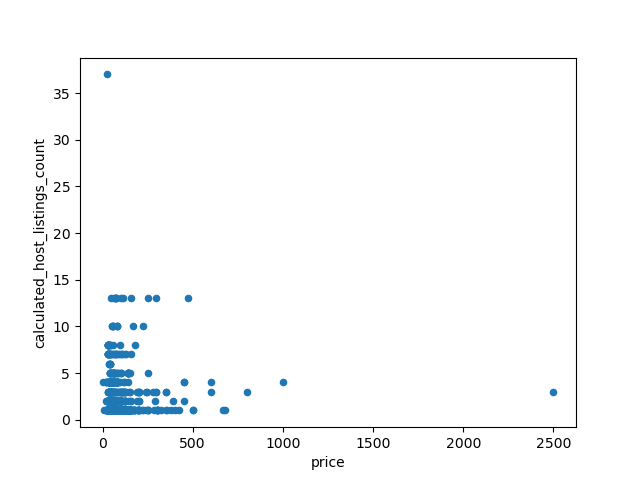
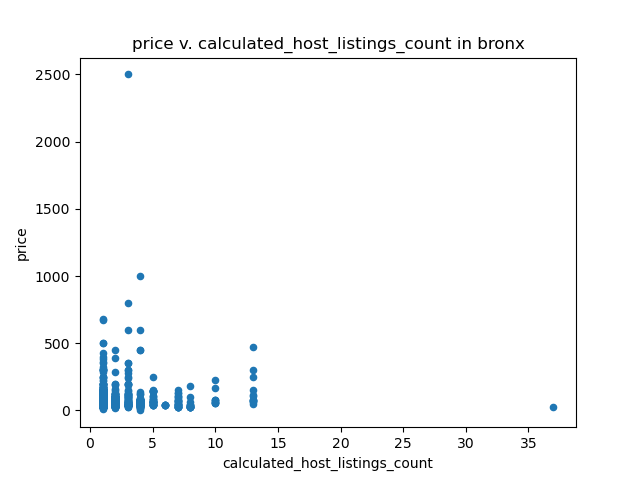
all finished

diff --git a/ha_8.py b/ha_8.py
@@ -1,4 +1,6 @@
-#HC8
+#Bronx Team: Sowjanya S., Jessica S., Shayaan M., Jason W.
+#Date: November 3, 2020
+#HC8 Code
 
 import pandas as pd
 import matplotlib.pyplot as plt
@@ -18,7 +20,10 @@ bronx_neighborhoods = bronx.groupby(['neighbourhood'])
 #Group by our neighborhoods
 my_bronx = bronx[bronx['neighbourhood'].isin(['Fordham', 'Allerton', 'Kingsbridge', 'Concourse'])]
 mybronx_neighborhoods = my_bronx.groupby(['neighbourhood'])  #In our bronx neighborhoods
-
+kingsbridge = airbnb[airbnb['neighbourhood'] == 'Kingsbridge']
+allerton = airbnb[airbnb['neighbourhood'] == 'Allerton']
+concourse = airbnb[airbnb['neighbourhood'] == 'Concourse']
+fordham = airbnb[airbnb['neighbourhood'] == 'Fordham']
 
 
 
@@ -97,9 +102,52 @@ plt.clf()
 
 #BOX PLOTS OF PRICE
 
-##################
-# CODE GOES HERE #
-##################
+#AIRBNB
+fig1, ax = plt.subplots(1,3, figsize=(9,5))
+ax[0].set_ylim([0,400])
+ax[0].set_title('Aribnb Price \nDistribution')
+ax[0].boxplot(airbnb['price'],showfliers=False)
+
+#BRONX
+ax[1].set_ylim([0,400])
+ax[1].set_title('Bronx Price \nDistribution')
+ax[1].boxplot(bronx['price'],showfliers=False)
+
+#MY_BRONX
+ax[2].set_ylim([0,400])
+ax[2].set_title('My_Bronx Neighborhood \nPrice Distribution')
+ax[2].boxplot(my_bronx['price'],showfliers=False)
+
+fig1 = plt.gcf()
+fig1.savefig('3PriceBoxplots.png')
+
+plt.clf()
+
+# same three boxplots, but with zeros removed
+airbnbwithoutzeros = airbnb[airbnb['price'] != 0]
+bronxwithoutzeros = bronx[bronx['price'] != 0]
+my_bronxwithoutzeros = my_bronx[my_bronx['price'] != 0]
+
+#AIRBNB
+fig1, ax = plt.subplots(1,3, figsize=(9,5))
+ax[0].set_ylim([0,400])
+ax[0].set_title('Aribnb Price \nDistribution')
+ax[0].boxplot(airbnbwithoutzeros['price'],showfliers=False)
+
+#BRONX
+ax[1].set_ylim([0,400])
+ax[1].set_title('Bronx Price \nDistribution')
+ax[1].boxplot(bronxwithoutzeros['price'],showfliers=False)
+
+#MY_BRONX
+ax[2].set_ylim([0,400])
+ax[2].set_title('My_Bronx Neighborhood \nPrice Distribution')
+ax[2].boxplot(my_bronxwithoutzeros['price'],showfliers=False)
+
+fig1 = plt.gcf()
+fig1.savefig('3PriceBoxplotsNOZEROS.png')
+
+plt.clf()
 
 
 
@@ -107,18 +155,66 @@ plt.clf()
 #SCATTERPLOTS
 
 #PRICE V. CALCULATED_HOST_LISTINGS_COUNT
-my_bronx.plot.scatter(x="price", y="calculated_host_listings_count")
-fig1 = plt.gcf()
-fig1.savefig("mybronx_pricev.calculated_host_listings_count.png")
 
-bronx.plot.scatter(x="price", y="calculated_host_listings_count")
+#BRONX
+bronx.plot.scatter(x="calculated_host_listings_count", y="price")
 fig2 = plt.gcf()
+plt.title('price v. calculated_host_listings_count in bronx')
 fig2.savefig("bronx_pricev.calculated_host_listings_count.png")
+plt.clf()
+
+#MY_BRONX
+plt.scatter(fordham['calculated_host_listings_count'], fordham['price'], s=1, color='r')
+plt.scatter(allerton['calculated_host_listings_count'], allerton['price'], s=1, color='g')
+plt.scatter(kingsbridge['calculated_host_listings_count'], kingsbridge['price'], s=1, color='b')
+plt.scatter(concourse['calculated_host_listings_count'], concourse['price'], s=1, color='gray')
 
 
-##################
-# CODE GOES HERE #
-##################
+plt.ylabel("Price (in USD)")
+plt.xlabel("Calculated Host Listings Count")
+plt.title('price v. calculated_host_listings in my_bronx')
+hoods3 = ['fordham', 'allerton', 'kingsbridge', 'concourse']
+plt.legend(hoods3)
+fig1 = plt.gcf()
+fig1.savefig('PriceVscalculated_host_listingsMyBronxScatterplot.png')
+plt.clf()
+
+
+
+#PRICE V. MINIMUM_NIGHTS
+
+#BRONX
+price = bronx['price']
+minNights = bronx['minimum_nights']
+y = price
+x = minNights
+colors = "gray"
+
+plt.ylim(0,800)
+plt.xlim(0,125)
+
+plt.scatter(x, y, s=1, c=colors, alpha=0.5)
+plt.ylabel("Price (in USD)")
+plt.xlabel("Minimum Nights")
+plt.title('price v. minimum_nights in bronx')
+fig1 = plt.gcf()
+fig1.savefig('PriceVsMinNightsScatterplot.png')
+plt.clf()
+
+#MY_BRONX
+plt.scatter(fordham['minimum_nights'], fordham['price'], s=1, color='r')
+plt.scatter(allerton['minimum_nights'], allerton['price'], s=1, color='g')
+plt.scatter(kingsbridge['minimum_nights'], kingsbridge['price'], s=1, color='b')
+plt.scatter(concourse['minimum_nights'], concourse['price'], s=1, color='gray')
+
+plt.ylabel("Price (in USD)")
+plt.xlabel("Minimum Nights")
+plt.title('price v. minimum_nights in my_bronx')
+hoods2 = ['fordham', 'allerton', 'kingsbridge', 'concourse']
+plt.legend(hoods2)
+fig1 = plt.gcf()
+fig1.savefig('PriceVsMinNightsMyBronxScatterplot.png')
+plt.clf()
 
 
 
@@ -143,19 +239,6 @@ print(mbstats['price'])
 #ROOM TYPE PIE CHARTS
 
 labels = 'Private Room', 'Entire home/apt', 'Shared Room'
-
-#AIRBNB
-rooms = airbnb['room_type'].value_counts()
-explode = (0, 0, 0.1)
-
-fig1, ax1 = plt.subplots()
-ax1.pie(rooms, explode=explode, labels=labels, autopct='%1.1f%%',
-        shadow=True, startangle=90)
-ax1.axis('equal')  # Equal aspect ratio ensures that pie is drawn as a circle.
-plt.title('room_type of listings in airbnb')
-fig1 = plt.gcf()
-fig1.savefig('roomTypesA.png')
-plt.clf()
 
 #BRONX
 brooms = bronx['room_type'].value_counts()
